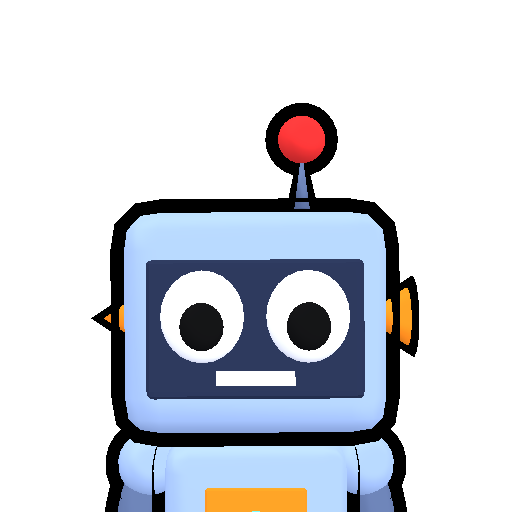
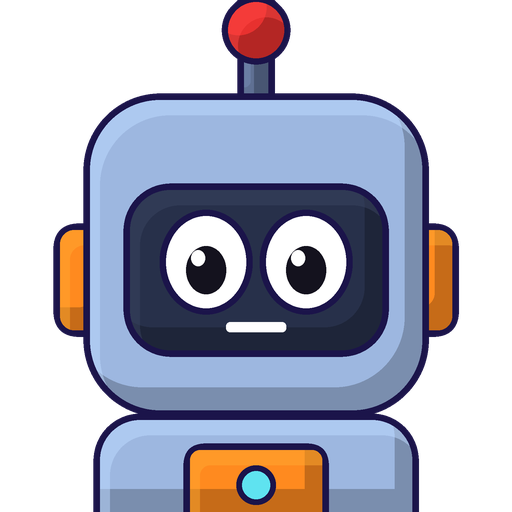
2D drawn character portraits, board fog, old TV overlay and muffled sound
- Player cards, splash banner, minigame screens and Mayor Marky use hand-drawn style 2D portraits (tools/character_builder/draw_portraits.py) instead of renders of the 3D models
- Distance fog on boards, scanline/vignette overlay (own option), low-pass filter on the master bus
Claude-Session: https://claude.ai/code/session_01H9zvKxPiFEMGwUS1wdYyYh

diff --git a/tools/character_builder/draw_portraits.py b/tools/character_builder/draw_portraits.py
@@ -1,0 +1,239 @@
+#!/usr/bin/env python3
+"""Draws the 2D character portraits (icon.png and splash.png of every character) and the Mayor Marky portrait.
+
+    python tools/character_builder/draw_portraits.py plugins/characters common/scenes/board_logic/controller/icons/host.png
+
+Hand-drawn style: thick dark outline, flat colours with one shade tone and a highlight, drawn with Pillow
+at 4x size and scaled down. Run `tools/first_import.py` afterwards so Godot imports the new pictures.
+"""
+import math
+import os
+import sys
+
+from PIL import Image, ImageChops, ImageDraw, ImageFilter
+
+S = 512
+K = 3                      # supersampling
+OUTLINE = (27, 20, 74)
+OW = 9                     # outline width in 512-unit pixels
+
+
+def hexc(h):
+    h = h.lstrip("#")
+    return tuple(int(h[i:i + 2], 16) for i in (0, 2, 4))
+
+
+def shade_of(c, f=0.78):
+    return tuple(int(v * f) for v in c)
+
+
+class Canvas:
+    def __init__(self):
+        self.img = Image.new("RGBA", (S * K, S * K), (0, 0, 0, 0))
+
+    def mask(self, fn):
+        m = Image.new("L", (S * K, S * K), 0)
+        fn(ImageDraw.Draw(m))
+        return m
+
+    def paint(self, fn, color, shade=True, outline=True, light=None):
+        """fn(draw) draws the shape in white (coordinates in 512 units via helpers below)."""
+        m = self.mask(fn)
+        if outline:
+            # grow the shape by the outline width: blur it and threshold (a big MaxFilter is far too slow)
+            o = m.filter(ImageFilter.GaussianBlur(OW * K * 0.62)).point(lambda v: 255 if v > 30 else 0)
+            self.img.paste(Image.new("RGBA", m.size, OUTLINE + (255,)), mask=o)
+        self.img.paste(Image.new("RGBA", m.size, tuple(color) + (255,)), mask=m)
+        if shade:
+            off = ImageChops.offset(m, -int(S * K * 0.035), -int(S * K * 0.045))
+            crescent = ImageChops.subtract(m, off)
+            self.img.paste(Image.new("RGBA", m.size, shade_of(color) + (255,)), mask=crescent)
+            if light is not False:
+                hl = ImageChops.offset(m, int(S * K * 0.02), int(S * K * 0.03))
+                glow = ImageChops.subtract(m, hl)
+                glow = glow.point(lambda v: v * 0.5)
+                self.img.paste(Image.new("RGBA", m.size, tuple(min(255, int(v * 1.12 + 14)) for v in color) + (255,)), mask=glow)
+
+    def done(self):
+        return self.img.resize((S, S), Image.LANCZOS)
+
+
+def E(cx, cy, rx, ry):
+    return lambda d: d.ellipse(((cx - rx) * K, (cy - ry) * K, (cx + rx) * K, (cy + ry) * K), fill=255)
+
+
+def R(x0, y0, x1, y1, r=20):
+    return lambda d: d.rounded_rectangle((x0 * K, y0 * K, x1 * K, y1 * K), radius=r * K, fill=255)
+
+
+def P(pts):
+    return lambda d: d.polygon([(x * K, y * K) for x, y in pts], fill=255)
+
+
+def both(*fns):
+    def f(d):
+        for fn in fns:
+            fn(d)
+    return f
+
+
+def eye(c, cx, cy, rx=34, ry=40, pupil=19, look=(0, 0)):
+    c.paint(E(cx, cy, rx, ry), (255, 255, 255), shade=False)
+    c.paint(E(cx + look[0], cy + look[1] + 4, pupil, pupil * 1.2), (20, 18, 30), shade=False, outline=False)
+    c.paint(E(cx + look[0] - 6, cy + look[1] - 6, 6, 7), (255, 255, 255), shade=False, outline=False)
+
+
+def blush(c, cx, cy, color=(255, 140, 150)):
+    c.paint(E(cx, cy, 20, 11), color, shade=False, outline=False)
+
+
+# ---------------------------------------------------------------- characters
+
+def businessman(mayor=False):
+    c = Canvas()
+    skin, hair, suit = hexc("#f4cba8"), hexc("#5a3a22"), hexc("#26263a")
+    if mayor:
+        hair, suit = hexc("#cfcfd8"), hexc("#3a2a5a")
+    c.paint(R(70, 400, 442, 560, 70), suit)                                   # shoulders
+    c.paint(P([(215, 400), (297, 400), (270, 500), (242, 500)]), (247, 247, 247), shade=False)   # shirt
+    if mayor:
+        c.paint(P([(120, 420), (170, 400), (330, 520), (300, 560), (200, 560)]), hexc("#d12b2b"))   # sash
+        c.paint(E(312, 478, 24, 24), hexc("#f2c230"))
+        c.paint(P([(244, 410), (268, 410), (275, 470), (256, 484), (237, 470)]), hexc("#d12b2b"), shade=False)
+    else:
+        c.paint(P([(244, 410), (268, 410), (275, 470), (256, 490), (237, 470)]), hexc("#d12b2b"))     # tie
+    c.paint(P([(196, 400), (230, 400), (246, 470), (170, 480)]), shade_of(suit, 1.5), shade=False)   # lapels
+    c.paint(P([(316, 400), (282, 400), (266, 470), (342, 480)]), shade_of(suit, 1.5), shade=False)
+    if not mayor:
+        c.paint(E(256, 190, 176, 150), hair)                                     # hair at the back
+    c.paint(E(256, 250, 156, 150), skin)                                         # head
+    c.paint(E(104, 262, 24, 34), skin); c.paint(E(408, 262, 24, 34), skin)       # ears
+    if mayor:
+        c.paint(P([(112, 235), (140, 175), (170, 235)]), hair, shade=False)      # grey side hair
+        c.paint(P([(400, 235), (372, 175), (342, 235)]), hair, shade=False)
+        c.paint(R(130, 70, 382, 150, 12), hexc("#16151f"))                       # top hat
+        c.paint(R(88, 135, 424, 170, 14), hexc("#16151f"))
+        c.paint(R(130, 128, 382, 150, 4), hexc("#c8452f"), shade=False, outline=False)
+    else:
+        # side-swept fringe: sweeps from the left parting over the forehead to the right
+        c.paint(P([(104, 250), (96, 170), (150, 100), (256, 70), (370, 96), (420, 170), (410, 250),
+                   (380, 190), (330, 168), (250, 196), (170, 190), (130, 215)]), hair)
+        c.paint(P([(250, 196), (330, 168), (380, 190), (360, 150), (300, 120), (200, 130), (160, 170)]), hair, shade=False, outline=False)
+    eye(c, 198, 262); eye(c, 314, 262)
+    c.paint(E(256, 292, 17, 14), hexc("#e8a98a"), shade=False)                   # nose
+    if mayor:
+        c.paint(P([(184, 330), (256, 312), (328, 330), (318, 366), (256, 346), (194, 366)]), (245, 245, 250))   # moustache
+        c.paint(R(226, 360, 286, 376, 8), hexc("#8c3b3b"), shade=False)
+    else:
+        c.paint(R(222, 336, 290, 350, 6), hexc("#8c3b3b"), shade=False)
+    return c.done()
+
+
+def emo():
+    c = Canvas()
+    skin, black, purple = hexc("#f3dccf"), hexc("#17171d"), hexc("#7a2fa8")
+    c.paint(R(80, 400, 432, 560, 70), black)
+    c.paint(R(80, 440, 432, 470, 8), purple, shade=False, outline=False)
+    c.paint(R(80, 500, 432, 528, 8), purple, shade=False, outline=False)
+    c.paint(E(256, 462, 22, 26), (245, 245, 245), shade=False)                  # skull print
+    c.paint(E(248, 456, 6, 8), black, shade=False, outline=False); c.paint(E(268, 456, 6, 8), black, shade=False, outline=False)
+    for tip in [(150, 60), (240, 28), (330, 50), (412, 98)]:                    # spikes at the back
+        c.paint(P([(tip[0] - 44, 170), tip, (tip[0] + 46, 170)]), black, shade=False)
+    c.paint(E(256, 190, 170, 140), black)
+    c.paint(E(256, 250, 152, 146), skin)
+    c.paint(E(108, 262, 22, 32), skin); c.paint(E(404, 262, 22, 32), skin)
+    c.paint(E(330, 270, 46, 54), black, shade=False, outline=False)             # eyeliner
+    eye(c, 330, 268, 32, 38, 18)
+    # the long fringe covers the other eye
+    c.paint(P([(94, 230), (110, 140), (200, 90), (330, 110), (420, 170), (380, 200), (300, 200), (250, 250),
+               (230, 340), (170, 330), (120, 300)]), black)
+    c.paint(E(256, 300, 15, 12), hexc("#d8b8a8"), shade=False)
+    c.paint(R(232, 346, 292, 358, 6), hexc("#6b2c3a"), shade=False)
+    return c.done()
+
+
+def kit():
+    c = Canvas()
+    fox, cream, dark = hexc("#f28a24"), hexc("#fff0d6"), hexc("#5a3320")
+    c.paint(E(256, 520, 150, 120), fox)
+    c.paint(E(256, 530, 90, 100), cream, shade=False)
+    c.paint(P([(86, 220), (110, 40), (230, 130)]), fox)                         # ears
+    c.paint(P([(426, 220), (402, 40), (282, 130)]), fox)
+    c.paint(P([(118, 190), (128, 90), (190, 140)]), hexc("#ff9aa8"), shade=False, outline=False)
+    c.paint(P([(394, 190), (384, 90), (322, 140)]), hexc("#ff9aa8"), shade=False, outline=False)
+    c.paint(E(256, 260, 172, 150), fox)                                          # head
+    c.paint(E(120, 320, 84, 62), cream); c.paint(E(392, 320, 84, 62), cream)    # cheek tufts
+    c.paint(E(256, 340, 80, 62), cream)                                          # muzzle
+    c.paint(E(256, 175, 40, 40), hexc("#f6c27a"), shade=False, outline=False)   # forehead mark
+    eye(c, 190, 250, 28, 34, 16); eye(c, 322, 250, 28, 34, 16)
+    c.paint(E(256, 318, 24, 18), (20, 18, 30), shade=False)                     # nose
+    c.paint(E(250, 312, 6, 4), (255, 255, 255), shade=False, outline=False)
+    c.paint(R(254, 336, 258, 358, 2), OUTLINE, shade=False, outline=False)
+    c.paint(P([(222, 350), (256, 360), (290, 350), (256, 376)]), hexc("#ff9aa8"), shade=False, outline=False)
+    return c.done()
+
+
+def bolt():
+    c = Canvas()
+    steel, navy, orange = hexc("#9db7e0"), hexc("#27304a"), hexc("#ff8a1f")
+    c.paint(R(100, 420, 412, 560, 40), steel)
+    c.paint(R(190, 450, 322, 520, 10), orange)
+    c.paint(E(256, 485, 14, 14), hexc("#5fe3f0"), shade=False)
+    c.paint(R(244, 20, 268, 110, 6), hexc("#5d6f94"))                            # antenna
+    c.paint(E(256, 30, 28, 28), hexc("#e8312f"))
+    c.paint(R(60, 230, 110, 330, 14), orange); c.paint(R(402, 230, 452, 330, 14), orange)   # ear bolts
+    c.paint(R(90, 100, 422, 410, 70), steel)                                     # head
+    c.paint(R(130, 190, 382, 350, 40), navy)                                     # screen
+    c.paint(E(206, 262, 40, 46), (255, 255, 255), shade=False); c.paint(E(306, 262, 40, 46), (255, 255, 255), shade=False)
+    c.paint(E(206, 270, 20, 24), (20, 18, 30), shade=False, outline=False); c.paint(E(306, 270, 20, 24), (20, 18, 30), shade=False, outline=False)
+    c.paint(E(198, 258, 7, 8), (255, 255, 255), shade=False, outline=False); c.paint(E(298, 258, 7, 8), (255, 255, 255), shade=False, outline=False)
+    c.paint(R(226, 322, 286, 332, 4), (255, 255, 255), shade=False, outline=False)
+    return c.done()
+
+
+def mushi():
+    c = Canvas()
+    cap, cream = hexc("#e23a3e"), hexc("#fbe9c4")
+    c.paint(E(256, 520, 150, 110), cream)
+    c.paint(E(256, 290, 150, 140), cream)                                        # face
+    c.paint(E(256, 150, 230, 130), cap)                                          # cap
+    c.paint(R(40, 190, 472, 232, 20), hexc("#a82428"), shade=False)             # rim
+    for cx, cy, rx, ry in [(150, 110, 44, 30), (270, 70, 52, 34), (380, 120, 40, 28), (100, 190, 30, 20), (440, 185, 28, 18)]:
+        c.paint(E(cx, cy, rx, ry), (255, 248, 238), shade=False)
+    eye(c, 200, 310, 26, 32, 15); eye(c, 312, 310, 26, 32, 15)
+    blush(c, 150, 354); blush(c, 362, 354)
+    c.paint(E(256, 366, 12, 8), hexc("#6e4326"), shade=False, outline=False)
+    return c.done()
+
+
+def timber():
+    c = Canvas()
+    bark, dark, wood = hexc("#8a5530"), hexc("#5a341c"), hexc("#e2b26a")
+    c.paint(R(90, 130, 422, 540, 36), bark)
+    for x, h in [(140, 120), (200, 80), (330, 100), (385, 90)]:
+        c.paint(R(x, 450 - h, x + 8, 450, 3), dark, shade=False, outline=False)
+    c.paint(E(256, 130, 166, 52), wood)                                          # cut top
+    c.paint(E(256, 130, 118, 34), hexc("#b97f3f"), shade=False, outline=False)
+    c.paint(E(256, 130, 70, 20), wood, shade=False, outline=False)
+    c.paint(E(256, 130, 24, 8), hexc("#b97f3f"), shade=False, outline=False)
+    c.paint(P([(250, 110), (240, 20), (276, 20), (268, 110)]), hexc("#3f8c2b"), shade=False)       # sprout stem
+    c.paint(E(190, 32, 74, 30), hexc("#69bd3f")); c.paint(E(318, 40, 78, 30), hexc("#69bd3f"))
+    eye(c, 188, 270, 32, 38, 18); eye(c, 324, 270, 32, 38, 18)
+    c.paint(R(130, 206, 230, 222, 6), dark, shade=False, outline=False); c.paint(R(282, 206, 382, 222, 6), dark, shade=False, outline=False)
+    c.paint(E(400, 340, 28, 44), dark, shade=False, outline=False)              # knot
+    c.paint(R(210, 366, 302, 384, 8), hexc("#4a1f12"), shade=False)
+    return c.done()
+
+
+def main():
+    chars, host = sys.argv[1], sys.argv[2]
+    for name, fn in {"Businessman": businessman, "Emo": emo, "Kit": kit, "Bolt": bolt, "Mushi": mushi, "Timber": timber}.items():
+        img = fn()
+        for f in ("icon.png", "splash.png"):
+            img.save(os.path.join(chars, name, f))
+        print("drew", name)
+    businessman(mayor=True).save(host)
+    print("drew Mayor Marky")
+
+
+main()

diff --git a/tools/character_builder/README.md b/tools/character_builder/README.md
@@ -38,6 +38,7 @@ characters. `SHOTS_DIR=<dir>` sets the output folder. `WRITE_ICONS=1` also write
 
 - `import_images.py` creates the Godot `.import` files for new PNGs (headless `godot --import`
   skips new files in a big project).
+- `draw_portraits.py` draws the 2D portraits (`icon.png`, `splash.png`) of the characters and Mayor Marky with Pillow.
 - `make_title.py` draws the title logo `assets/textures/title/Title.png` with Pillow.
 - `make_game_icon.py` builds `assets/icons/icon*.png` and `icon.ico` from a 1024 px render.
 - `blender/cake_topper.py <cake.blend> <cake.glb>` replaces the figure on the board cake with a

diff --git a/README.md b/README.md
@@ -35,7 +35,8 @@ Currently, Godot Engine version 4.7 is used.
 
 The 3D picture is drawn with a Nintendo 64 style post-processing shader (`common/retro/`): about 240 lines,
 the console's three-point texture filter, 16 bit colour with dithering. The menus and text stay sharp.
-Switch it off under Options > Visual > Retro look (Nintendo 64).
+The board has distance fog, an old-TV overlay (scanlines, dark corners) sits on top, and the sound is slightly
+muffled like a 90s console. Switch the look off under Options > Visual (Retro look, Old TV scanlines).
 
 ## Tools
 
